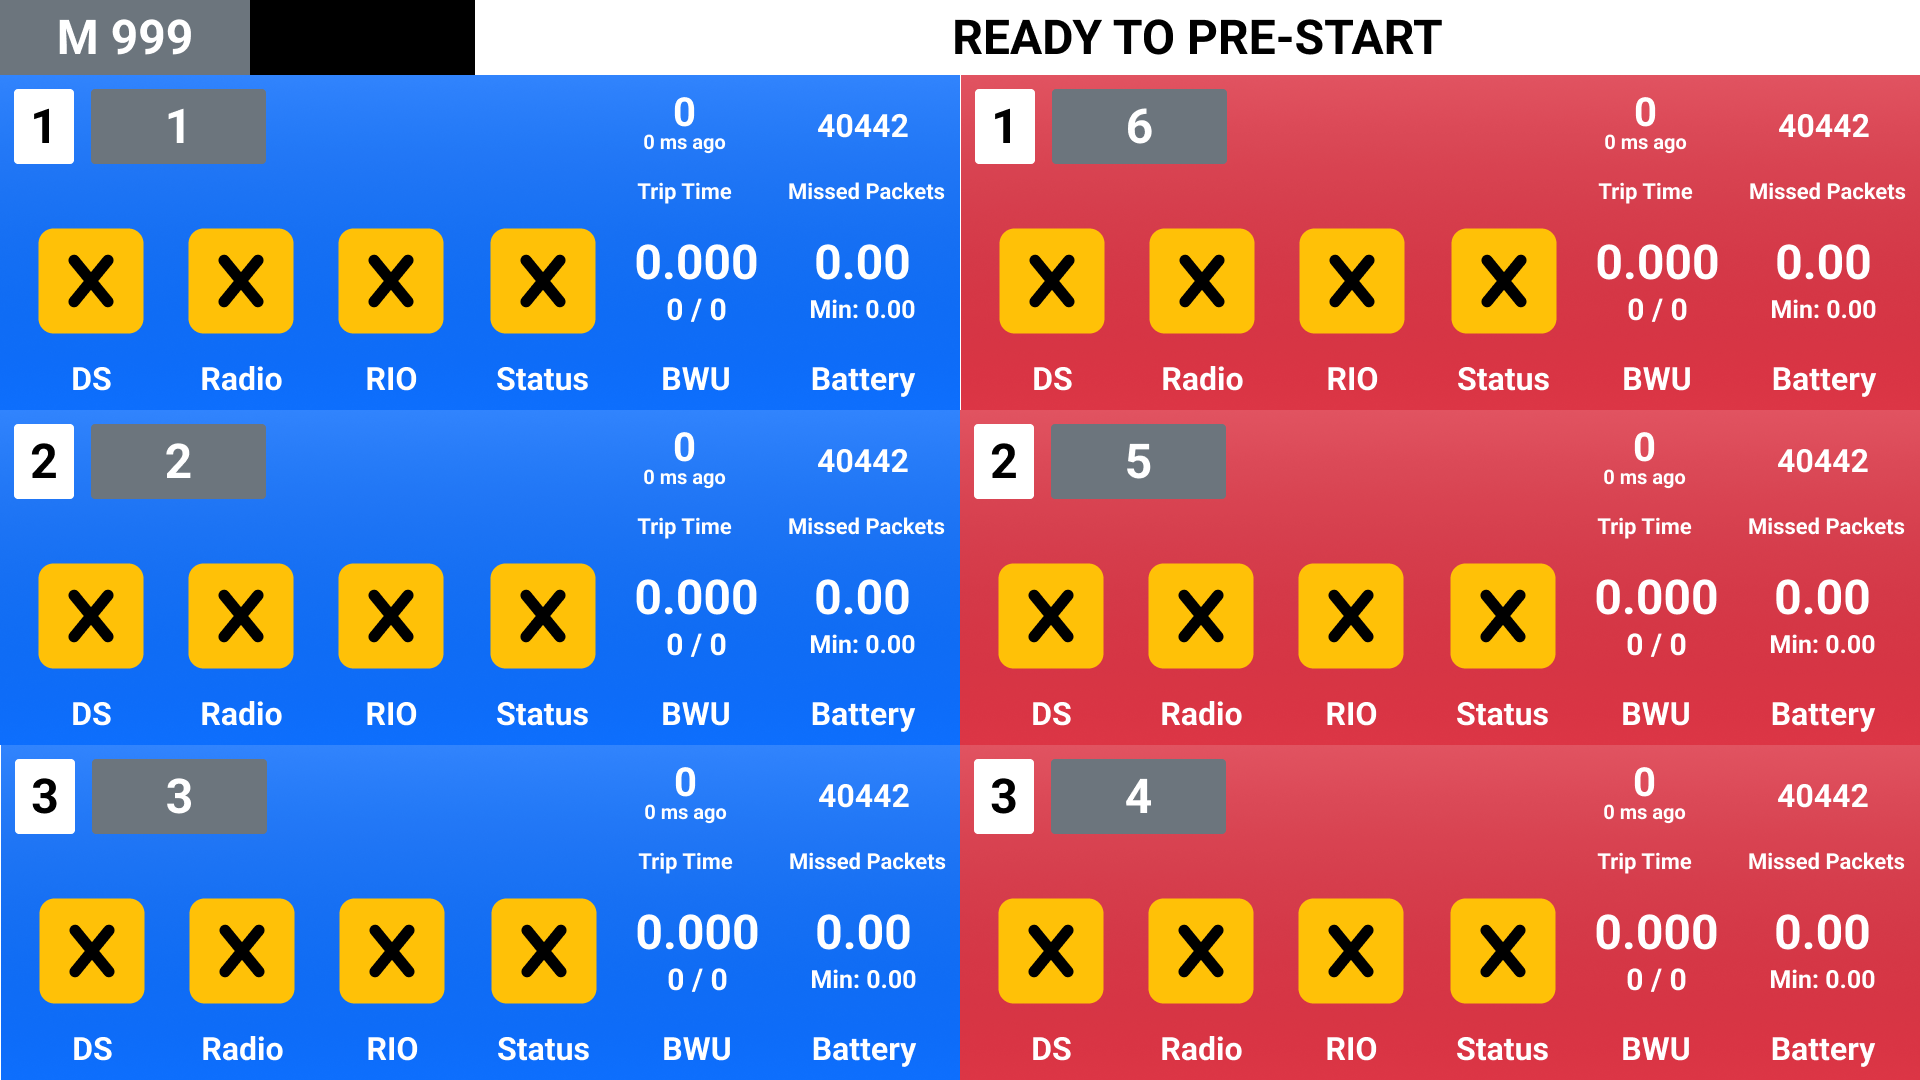
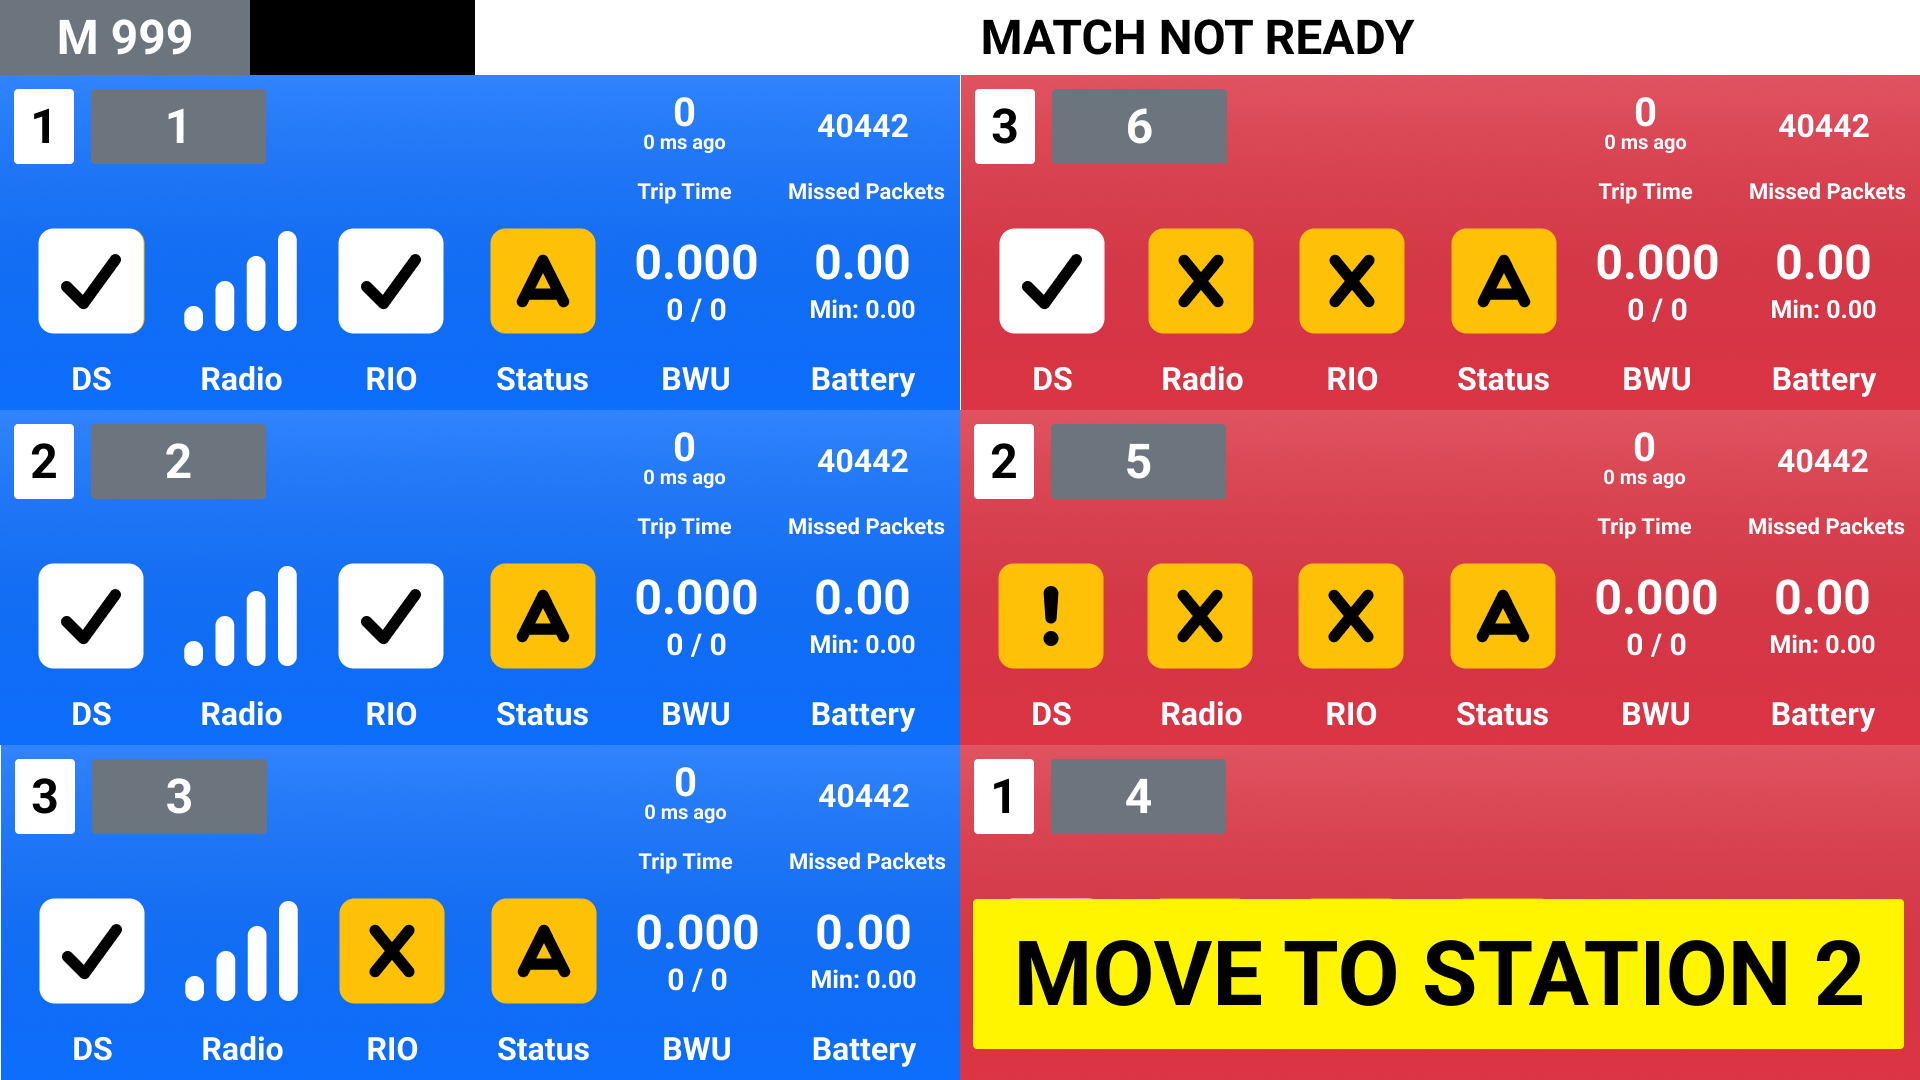
Adds section targets to connectivity guide. Document an additional status indicator combination. Replace first image on live monitor page with one that matches current layout. (#110)

diff --git a/source/field-monitor/status-indicators/status-indicators.rst b/source/field-monitor/status-indicators/status-indicators.rst
@@ -9,7 +9,7 @@ Driver Station
 --------------
 
 .. note::
-    For suggestions on resolving issues with the Driver Station computer and software, please go to the Driver Station Troubleshooting section of the :ref:`Connectivity Guide <field-monitor-connectivity-guide>`
+    For suggestions on resolving issues with the Driver Station computer and software, please go to the Driver Station Troubleshooting section of the :ref:`Connectivity Guide <ds-troubleshooting>`
 
 ========================================  ===========
 Indicator                                 Explanation    
@@ -24,7 +24,7 @@ Robot radio
 -----------
 
 .. note::
-    For suggestions on resolving issues with the robot radio, please go to the Robot Troubleshooting section of the :ref:`Connectivity Guide <field-monitor-connectivity-guide>`
+    For suggestions on resolving issues with the robot radio, please go to the Robot Troubleshooting section of the :ref:`Connectivity Guide <radio-troubleshooting>`
 
 ===================================  ===========
 Indicator                            Explanation    
@@ -41,7 +41,7 @@ roboRIO
 -------
 
 .. note::
-    For suggestions on resolving issues with the roboRIO, please go to the Robot Troubleshooting section of the :ref:`Connectivity Guide <field-monitor-connectivity-guide>`
+    For suggestions on resolving issues with the roboRIO, please go to the Robot Troubleshooting section of the :ref:`Connectivity Guide <computer-troubleshooting>`
 
 ========================================  ===========
 Indicator                                 Explanation    

diff --git a/source/field-monitor/field-connectivity/connectivity-guide.rst b/source/field-monitor/field-connectivity/connectivity-guide.rst
@@ -27,6 +27,8 @@ In this example, each team has a different connectivity state.
 .. note::
    When troubleshooting connectivity, always start with the driver station and work your way from left to right on the Field Monitor.
 
+.. _ds-troubleshooting:
+
 Driver Station Troubleshooting
 ------------------------------
 
@@ -118,6 +120,20 @@ This status indicates a device is connected at the driver station, but FMS canno
    * Offer a loaner laptop.
    * Follow up by working with the team to troubleshoot when time allows.
 
+.. image:: images/ds-bang-only.png
+
+This status can indicate:
+
+* Driver station has multiple IP addresses
+
+  * Vivid imager
+  * Wifi on
+  * Extra static IP
+
+* High CPU on driver station is preventing the FMS from communicating with the driver station software
+
+.. _radio-troubleshooting:
+
 Radio Troubleshooting
 ---------------------
 
@@ -157,6 +173,8 @@ OM5P Robot Radio (China Events Only)
    * Verify the radio has been programmed for the current event in progess. (Radios must be reprogrammed for each new event)
    * Check with the team to ensure they have no backup radios powered on in the venue.
 
+
+.. _computer-troubleshooting:
 
 roboRIO Troubleshooting
 -----------------------
